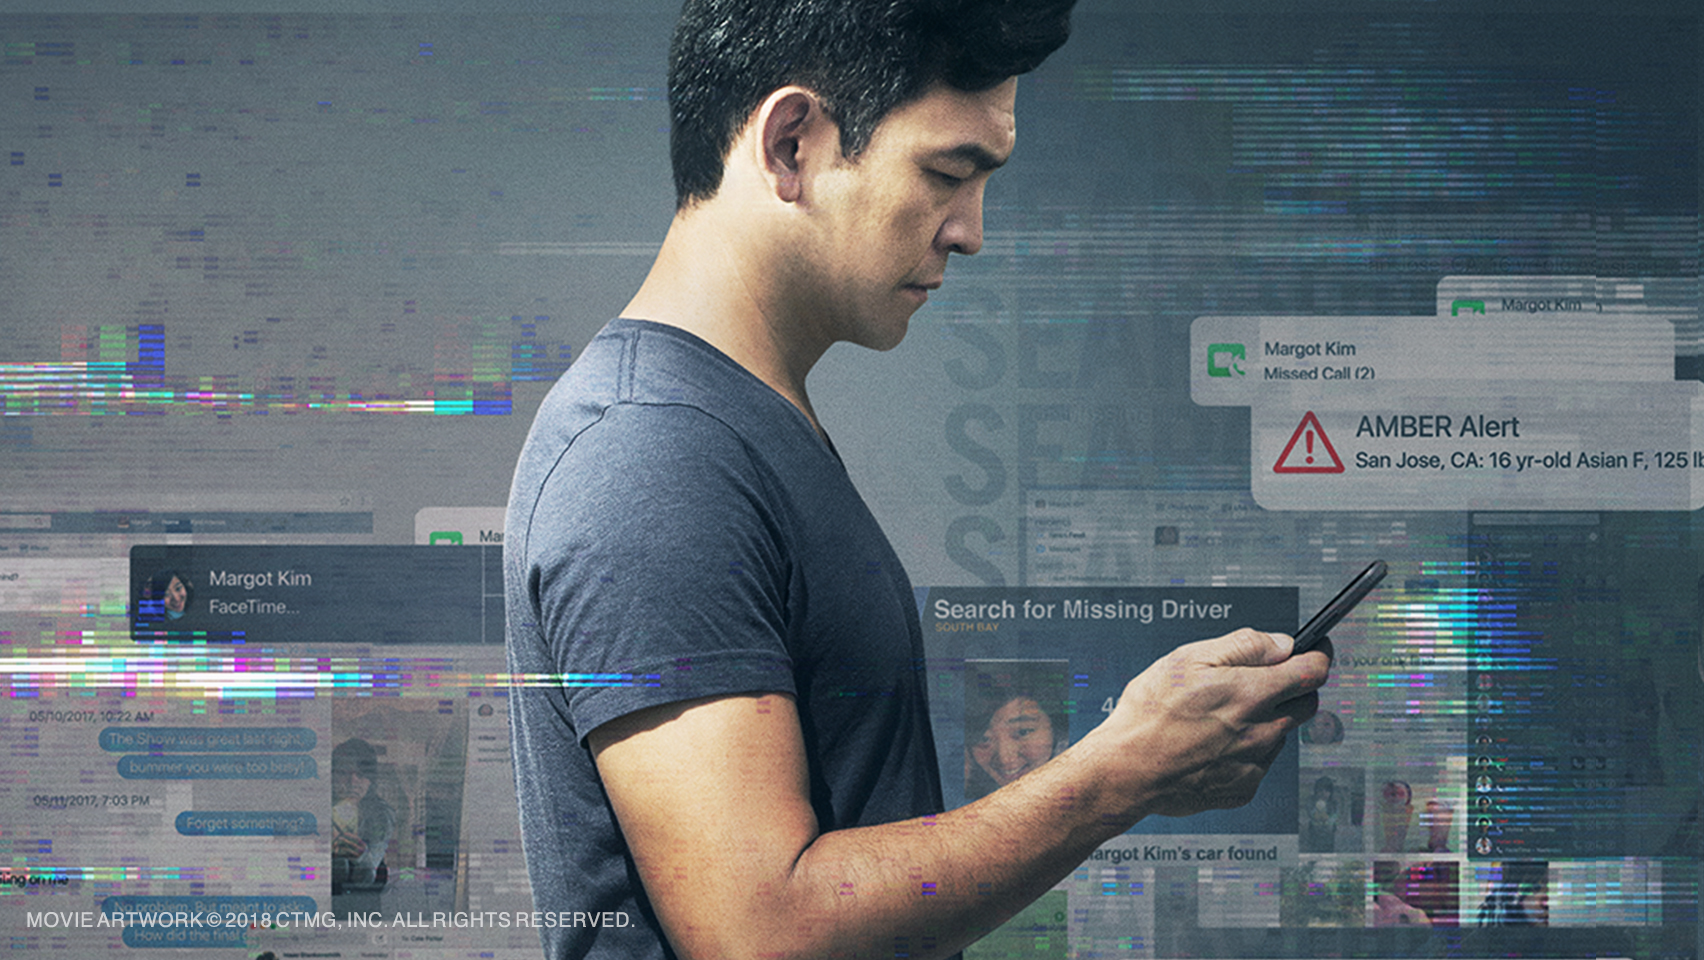
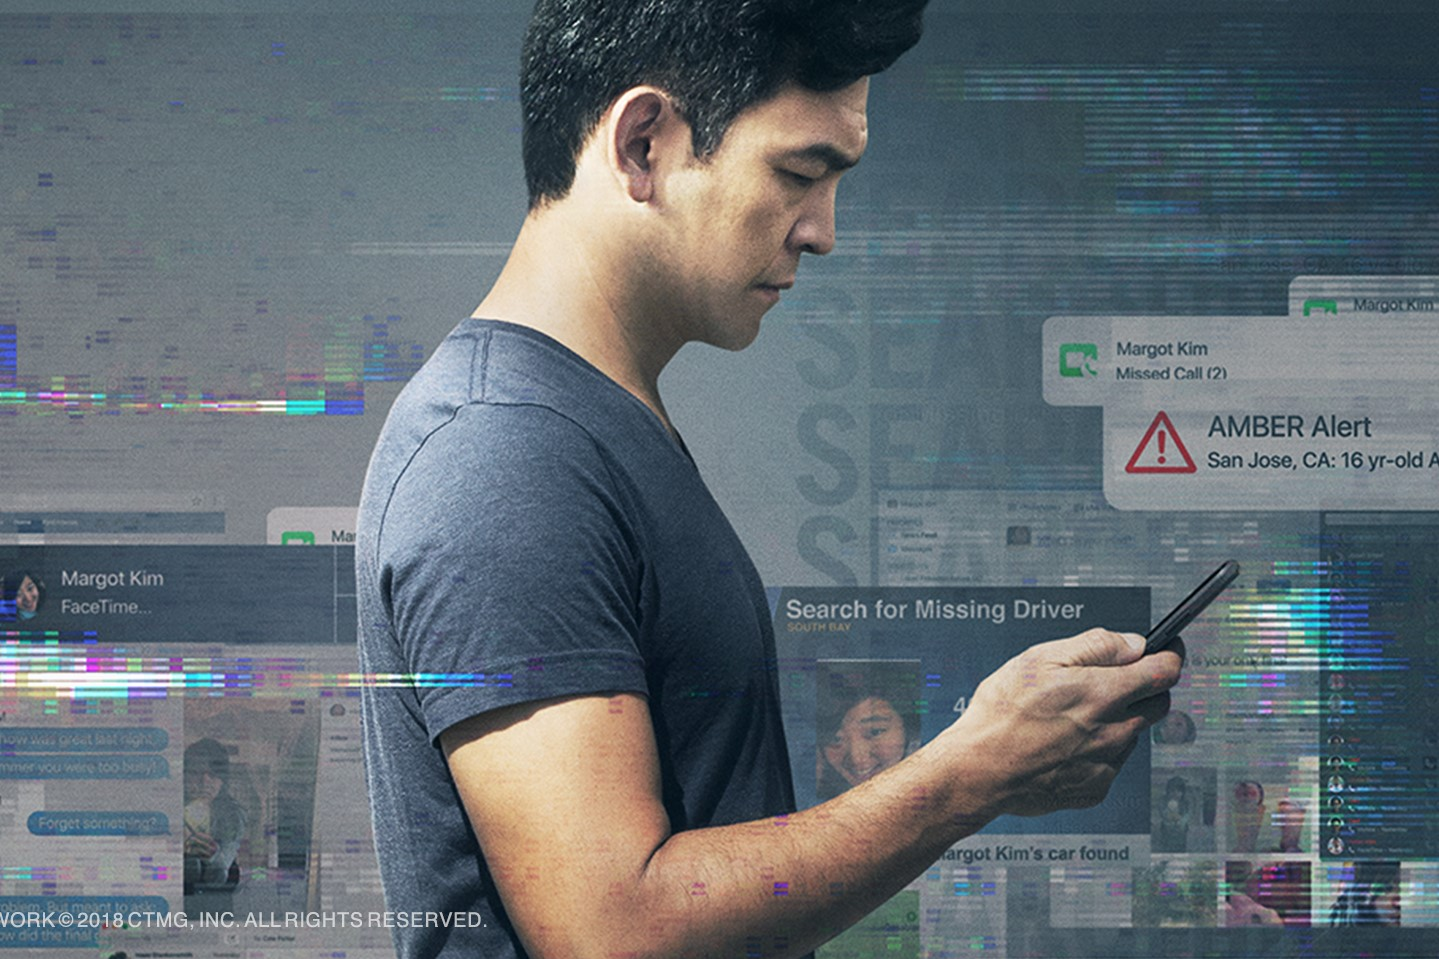
Fixed ratio for image of Searching and added it to the carousel on the home page

diff --git a/index.html b/index.html
@@ -111,7 +111,7 @@
                             </div>
                         </div>
                         <div class="blog-content">
-                            <img src="./assets/Blog-post/sneakers-car.jpg" alt="post-4" >
+                            <img src="./assets/Blog-post/searching-header.jpg" alt="post-4" >
                             <div class="blog-title">
                                 <h3>Searching</h3>
                                 <a href="Searching.html"><button class="btn btn-blog">Read Now</button></a>
